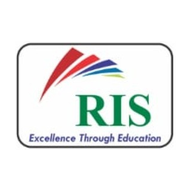
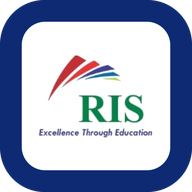
Add files via upload

diff --git a/index.html b/index.html
@@ -1,4 +1,4 @@
-<!doctype html><html><head><meta charset=utf8><title>RIS ID Card Maker</title><meta name="mobile-web-app-capable" content="yes"><meta name="apple-mobile-web-app-capable" content="yes"><meta name="theme-color" content="#3c4a63"><link rel="manifest" href="manifest.json"><link rel="icon" type="image/png" href="icon-192.png"><link rel="apple-touch-icon" href="icon-192.png"><meta property="og:type" content="website"><meta property="og:title" content="RIS ID Card Maker"><meta property="og:description" content="Radiant International School, Kharsan, Udaipur — student ID cards and records"><meta property="og:url" content="https://basantivyaskharsan-ris.github.io/RIS-SMART-ICARD/"><meta property="og:image" content="https://basantivyaskharsan-ris.github.io/RIS-SMART-ICARD/school.jpg"><meta property="og:image:width" content="1080"><meta property="og:image:height" content="565"><meta name="twitter:card" content="summary_large_image"><meta name="description" content="Radiant International School, Kharsan, Udaipur — student ID cards and records"><meta name=viewport content="width=device-width,initial-scale=1,viewport-fit=cover"><style>:root{color-scheme:light;box-sizing:border-box;padding-top:env(safe-area-inset-top,0px);padding-bottom:env(safe-area-inset-bottom,0px)}html{scroll-padding-top:env(safe-area-inset-top,0px)}body{margin:0;padding:0;font:14px -apple-system,BlinkMacSystemFont,sans-serif;background:#fff;color:#000}img{max-width:100%}[hidden]:not([hidden=until-found i]){display:none!important}.menub{background:none;border:0;font-size:22px;line-height:1;padding:2px 8px;color:var(--mu,#5a6a86)}</style></head><body>
+<!doctype html><html><head><meta charset=utf8><title>RIS ID Card Maker</title><meta name="mobile-web-app-capable" content="yes"><meta name="apple-mobile-web-app-capable" content="yes"><meta name="theme-color" content="#3c4a63"><link rel="manifest" href="manifest.json"><link rel="icon" type="image/png" sizes="32x32" href="favicon-32.png"><link rel="apple-touch-icon" href="apple-touch-icon.png"><meta property="og:type" content="website"><meta property="og:title" content="RIS ID Card Maker"><meta property="og:description" content="Radiant International School, Kharsan, Udaipur — student ID cards and records"><meta property="og:url" content="https://basantivyaskharsan-ris.github.io/RIS-SMART-ICARD/"><meta property="og:image" content="https://basantivyaskharsan-ris.github.io/RIS-SMART-ICARD/school.jpg"><meta property="og:image:width" content="1080"><meta property="og:image:height" content="565"><meta name="twitter:card" content="summary_large_image"><meta name="description" content="Radiant International School, Kharsan, Udaipur — student ID cards and records"><meta name=viewport content="width=device-width,initial-scale=1,viewport-fit=cover"><style>:root{color-scheme:light;box-sizing:border-box;padding-top:env(safe-area-inset-top,0px);padding-bottom:env(safe-area-inset-bottom,0px)}html{scroll-padding-top:env(safe-area-inset-top,0px)}body{margin:0;padding:0;font:14px -apple-system,BlinkMacSystemFont,sans-serif;background:#fff;color:#000}img{max-width:100%}[hidden]:not([hidden=until-found i]){display:none!important}.menub{background:none;border:0;font-size:22px;line-height:1;padding:2px 8px;color:var(--mu,#5a6a86)}</style></head><body>
 <title>Radiant ID Cards</title>
 <link rel="stylesheet" href="https://fonts.googleapis.com/css2?family=Hind:wght@400;500;600;700&display=swap">
 <style>

diff --git a/sw.js b/sw.js
@@ -1,6 +1,6 @@
 // RIS offline helper: keeps the app opening even on a weak network.
-const V='ris-v4';
-const CORE=['./','index.html','manifest.json','icon-192.png','icon-512.png'];
+const V='ris-v5';
+const CORE=['./','index.html','manifest.json','icon-192.png','icon-512.png','icon-maskable-512.png','apple-touch-icon.png','favicon-32.png'];
 self.addEventListener('install',e=>{e.waitUntil(caches.open(V).then(c=>Promise.all(CORE.map(u=>c.add(u).catch(()=>{})))).then(()=>self.skipWaiting()))});
 self.addEventListener('activate',e=>{e.waitUntil(caches.keys().then(k=>Promise.all(k.filter(x=>x!==V).map(x=>caches.delete(x)))).then(()=>self.clients.claim()))});
 self.addEventListener('fetch',e=>{
